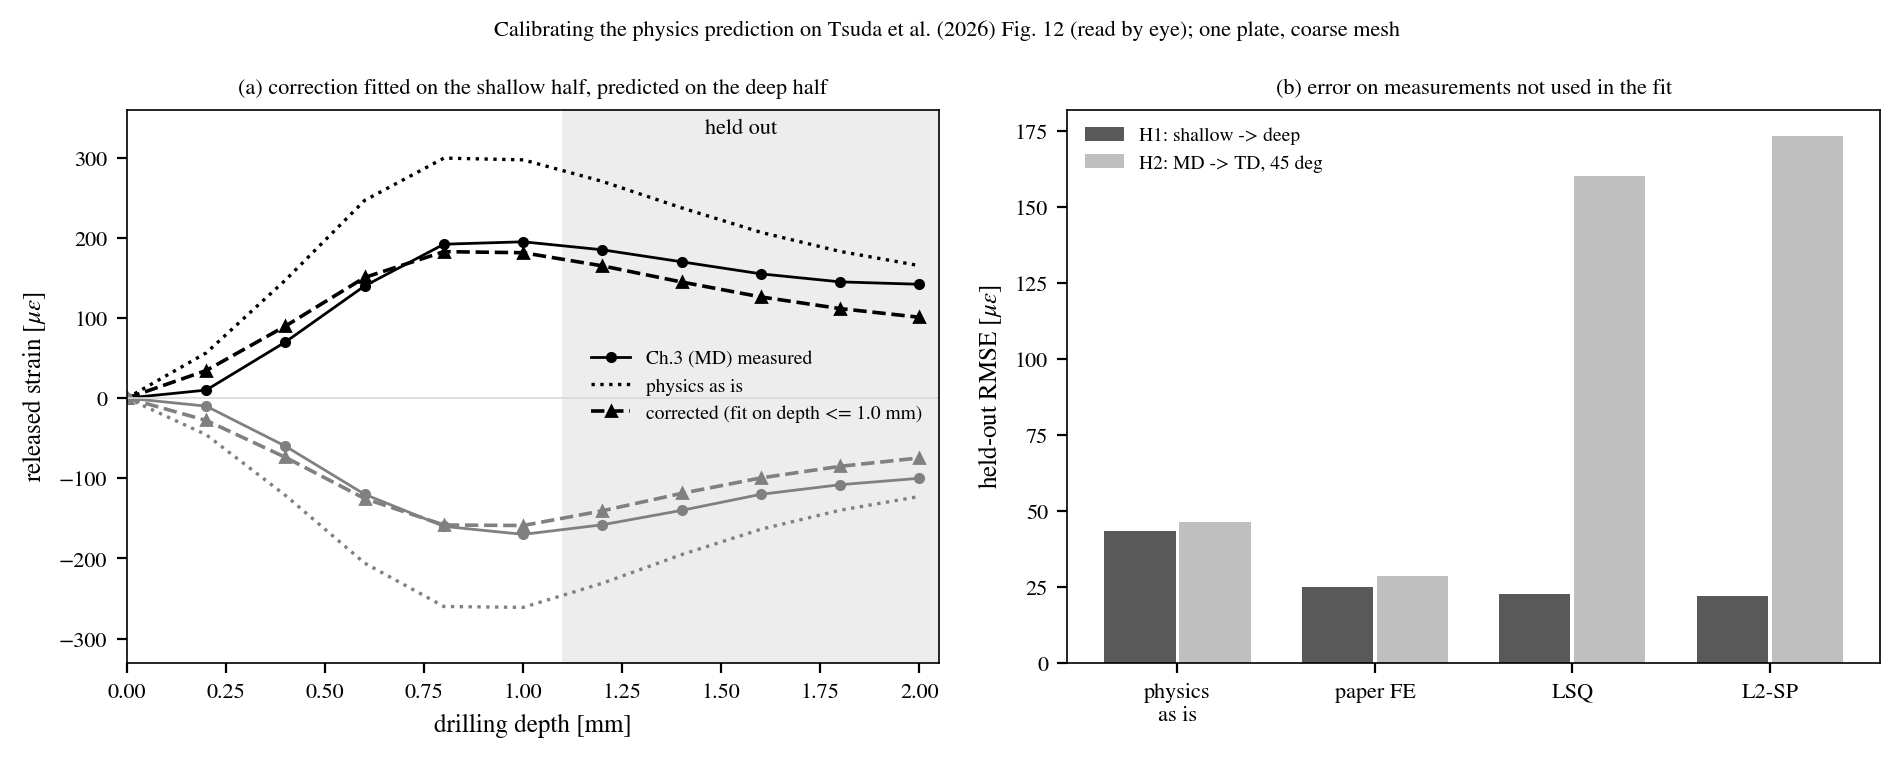
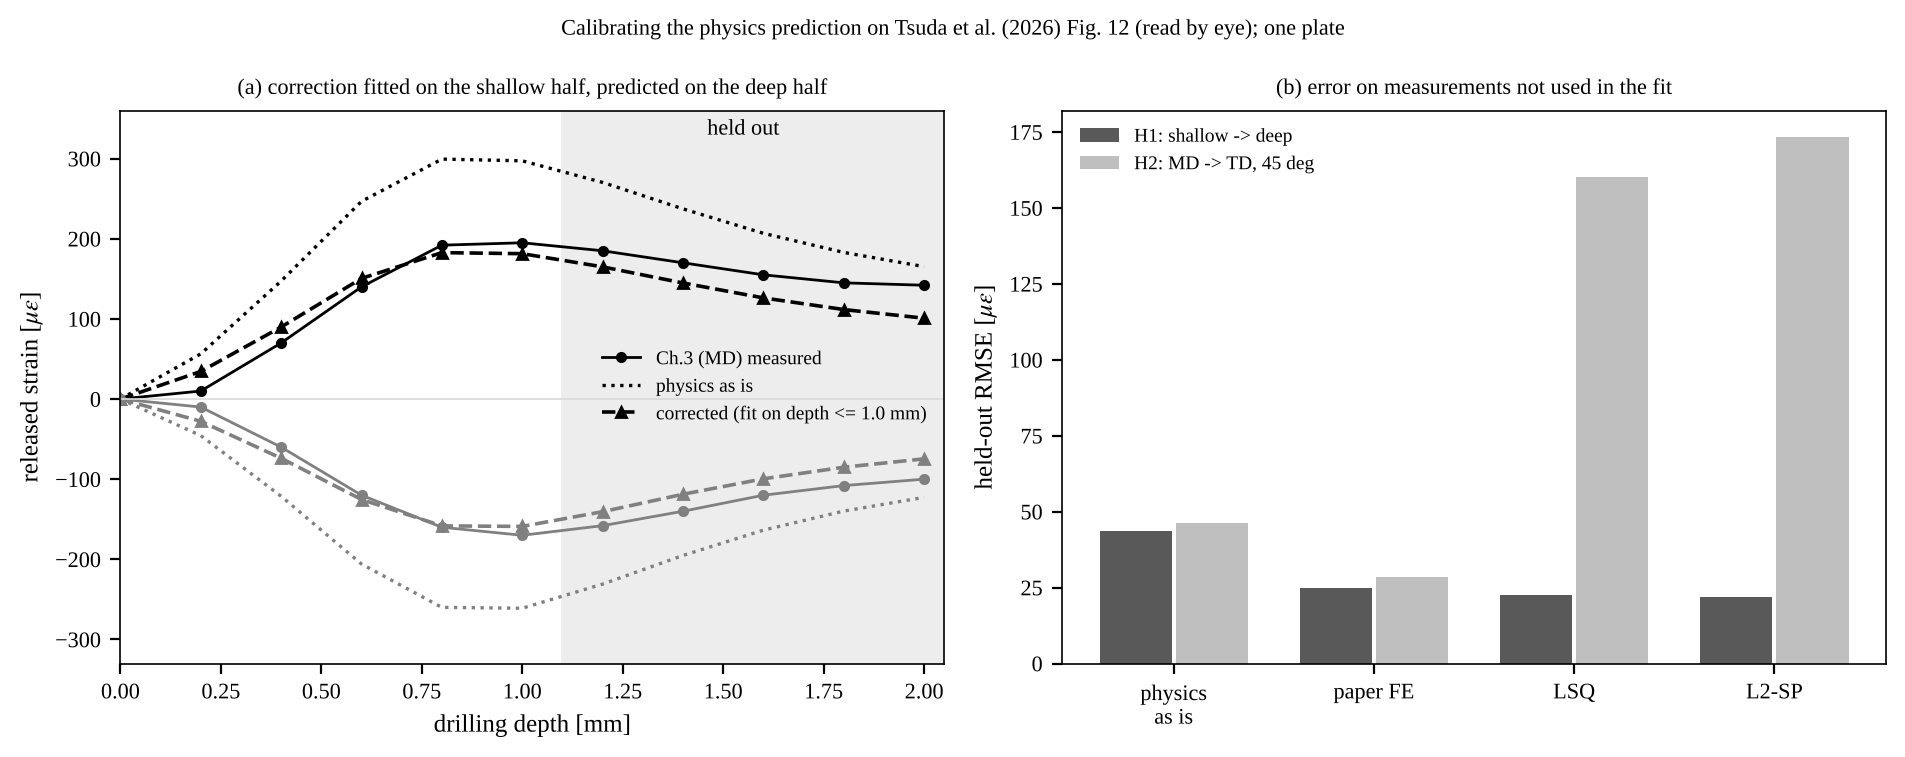
Merge fifa Part II (both cases PASS) and Part III basis runs; transfer calibration on the full-mesh Abaqus basis (H3: MD-only common factor 0.671, TD RMSE 46 -> 11)
Claude-Session: https://claude.ai/code/session_01VgNETZNyNdxs7fPiUiXfyS

diff --git a/validation/denso_tsuda2026_transfer.py b/validation/denso_tsuda2026_transfer.py
@@ -157,7 +157,7 @@ def _plot(H, y, yfe, p0, depth, dd, gauge, res):
     ax[1].set_xticks(range(4)); ax[1].set_xticklabels(names, fontsize=8)
     ax[1].set_ylabel(r"held-out RMSE [$\mu\varepsilon$]"); ax[1].legend(frameon=False, fontsize=7)
     ax[1].set_title("(b) error on measurements not used in the fit", fontsize=8)
-    fig.suptitle("Calibrating the physics prediction on Tsuda et al. (2026) Fig. 12 (read by eye); one plate, coarse mesh", fontsize=8)
+    fig.suptitle("Calibrating the physics prediction on Tsuda et al. (2026) Fig. 12 (read by eye); one plate", fontsize=8)
     fig.tight_layout(); fig.savefig(os.path.join(OUT, "transfer_hole_drilling.png"), dpi=200); plt.close(fig)
 
 

diff --git a/slides/OUTLINE_denso_kenkyukai.md b/slides/OUTLINE_denso_kenkyukai.md
@@ -11,7 +11,7 @@
 | 2. 目的 | 1 | 数値解析で事前学習し、少数の実測で補正する。段階 ①残留ひずみ ②変形・強度 ③成形条件設計 | `slides/denso_purpose_flow.pptx` |
 | 3. 手法 | 3 | (3.1) 結晶化（Nakamura 式）と配向平均による固有ひずみ *e*\* = ⟨*α*⟩Δ*T* + ⟨*β*⟩*X*<sub>c</sub>、式番号つき。(3.2) 穿孔法の模擬（要素除去、成分別の重ね合わせ）。(3.3) L2-SP による補正 | `validation/denso_tsuda2026_compare.py`、`abaqus/denso_plate/gen_hole_drilling.py` |
 | 4. 既報の再現 | 2 | 表面応力 −24.4 対 −24.3 MPa。穿孔法の解放ひずみ：傾向は一致、大きさは実測の約 1.5 倍（Abaqus、本番メッシュ） | `results/denso_tsuda2026/` |
-| 5. 実測への補正 | 2 | 浅い穿孔深さで補正 → 深い側の誤差 48 → 22 µε。MD のみで共通倍率を補正 → TD の誤差 51 → 11 µε。共通倍率 0.65 は *T*<sub>0,eff</sub> ≈ 124 °C に相当（既報の推定 約 120 °C） | `validation/denso_tsuda2026_transfer.py` |
+| 5. 実測への補正 | 2 | 浅い穿孔深さで補正 → 深い側の誤差 44 → 22 µε。MD のみで共通倍率を補正 → TD の誤差 46 → 11 µε。共通倍率 0.67 は *T*<sub>0,eff</sub> ≈ 127 °C に相当（既報の推定 約 120 °C）。Abaqus 本番メッシュ | `validation/denso_tsuda2026_transfer.py` |
 | 6. 示せたこと・示せていないこと | 1 | 示せた：既報の解析の再現、1 枚の板での補正の効果。示せていない：実データでの転移学習、PPS の結晶化定数、②・③ | 本表 |
 | 7. 今後 | 1 | 実データの受領、細かいメッシュでの計算、反りへの拡張、成形条件設計 | `research/ROADMAP_denso_to_2028.md` |
 

diff --git a/research/QUESTIONS_denso.md b/research/QUESTIONS_denso.md
@@ -26,7 +26,7 @@
 1. 計測の方法（穿孔法、X 線回折法など）と、ゲージの型式・位置。
 2. 計測する方向。可能であれば、MD と TD の両方向を計測していただきたい。本学側の予備計算（既報 Fig. 12 からの読み取り値による試算）の結果は次のとおりである。
    - MD と TD に別々の補正をかける場合、MD のみの計測では TD の補正量が決まらなかった。
-   - 両方向に共通の補正をかける場合、MD のみの計測から TD を予測でき、誤差は 51 → 11 µε となった。共通の補正は、無応力温度 *T*<sub>0</sub> を 1 つ補正することに相当する。
+   - 両方向に共通の補正をかける場合、MD のみの計測から TD を予測でき、誤差は 46 → 11 µε となった（Abaqus 本番メッシュ）。共通の補正は、無応力温度 *T*<sub>0</sub> を 1 つ補正することに相当する。
    - ただし、この仮定が別の部品・成形条件で成り立つかは確かめていない。仮定を確かめるには、少なくとも一部の条件で TD の計測が要る。
 3. 計測の点数・試験片の枚数・条件数と、その見込み時期。
 4. 計測のばらつき（同一条件での繰り返し）の情報があるか。
